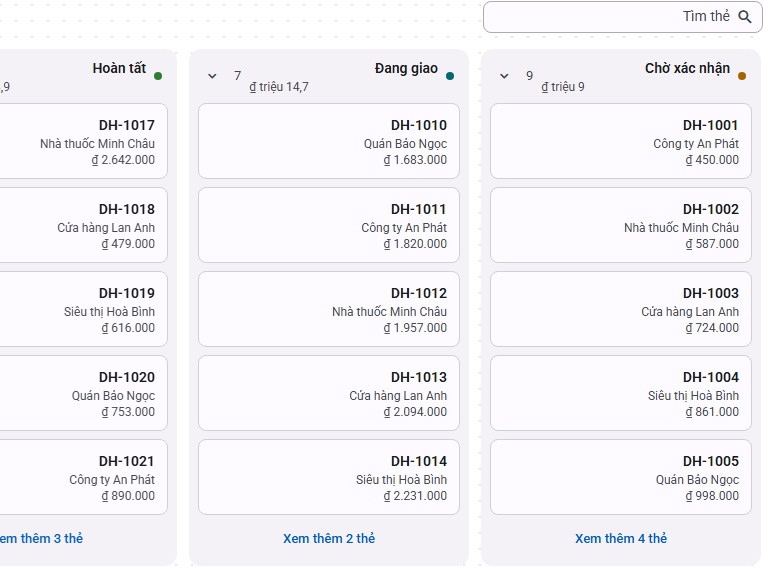
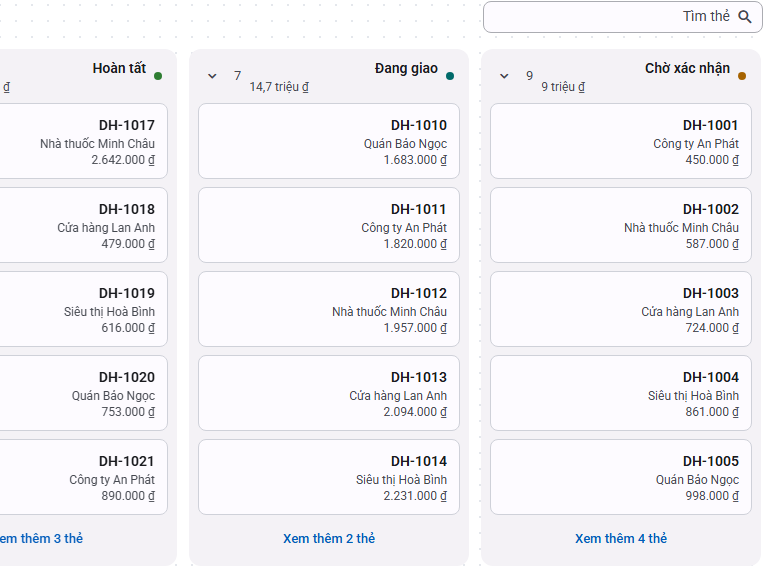
test(kanban): state pictures, stable framed drags, showcase guards; G-final reports
- E2E: one Bangkok-only test pictures the card states (default, hover,
  selected, keyboard focus, saving, failed), the lane kinds and the load
  states (first page, loading more, next-page error, empty) of
  Kanban Review §02–05, and the reorder slot while dragging.
- E2E frame(): smooth scrolling and scroll anchoring off, then wait for
  the page to stand still. The docs page scrolled by itself while
  @defer sections rendered; the CDK moved its cached rects of the fixed
  board and a drop counted as outside the list (KAN-E-09 failed about
  1 in 10 on a loaded machine; 0/60 after).
- Showcase: a 3-second "slow network" switch on the Orders example,
  amounts in <bdi> for RTL, the English note of the Orders example, and
  the registry spec counts for four kanban examples (513 sections).
- reports/kanban-tests.md and kanban-a11y.md (G-final).

diff --git a/showcase/e2e/components/kanban.e2e.ts b/showcase/e2e/components/kanban.e2e.ts
@@ -67,10 +67,22 @@ async function drag(page: Page, source: Locator, target: Locator, beforeDrop?: (
  * four-lane board sit outside the board's scroll view, and a page scroll would shift the drop points.
  */
 async function frame(root: Locator, width = 1500): Promise<void> {
-  await root.evaluate((element, size) => {
+  await root.evaluate(async (element, size) => {
     const host = element.parentElement as HTMLElement;
     Object.assign(host.style, { position: 'fixed', top: '0', left: '0', zIndex: '1000', width: `${size}px`, flex: 'none' });
     host.style.background = 'var(--sd-surface, #fff)';
+    // why: the CDK moves its cached rects when the page scrolls during a drag, but this board is fixed and does not
+    // move: the drop then counts as outside the list. The docs page scrolls by itself (smooth scrolling, and scroll
+    // anchoring while @defer sections render), so turn both off and wait until the page stands still.
+    document.documentElement.style.scrollBehavior = 'auto';
+    document.documentElement.style.overflowAnchor = 'none';
+    document.body.style.overflowAnchor = 'none';
+    let last = Number.NaN;
+    for (let still = 0; still < 3; ) {
+      await new Promise(requestAnimationFrame);
+      still = window.scrollY === last ? still + 1 : 0;
+      last = window.scrollY;
+    }
   }, width);
 }
 
@@ -228,6 +240,67 @@ test.describe('sd-kanban', () => {
     await name(root, 'DH-1001').click();
     await shot(root, 'orders-forced-colors');
     await axe(page, root);
+  });
+
+  test('[KAN-E-01] pictures the card states, the lane kinds and the load states (TESTING §9)', async ({ page }) => {
+    test.skip(test.info().project.name !== 'asia-bangkok', 'pictures are written from the Bangkok run only');
+    // why: the framed board covers the demo buttons, so they are clicked from the page script.
+    const press = (testId: string): Promise<void> => page.getByTestId(testId).evaluate(button => (button as HTMLButtonElement).click());
+
+    // Lanes and load states (Kanban Review §04, §05): the whole board, then one lane per state.
+    let root = await open(page, 'orders', 'orders');
+    await frame(root, 1200);
+    await shot(root, 'board-light');
+    await press('orders-slow');
+    await lane(root, 'cancelled').locator('button[aria-expanded="false"]').click();
+    await expect(lane(root, 'cancelled').locator('[data-skeleton]').first()).toBeVisible();
+    await shot(lane(root, 'cancelled'), 'load-first-page');
+    await lane(root, 'pending').locator('[data-load-more]').click();
+    await expect(lane(root, 'pending')).toHaveAttribute('data-status', 'loading-more');
+    await shot(lane(root, 'pending'), 'load-more-loading');
+    await press('orders-slow');
+    await expect(lane(root, 'pending')).toHaveAttribute('data-status', 'idle', { timeout: 10_000 });
+    await press('fail-shipping');
+    await lane(root, 'shipping').locator('[data-load-more]').click();
+    await expect(lane(root, 'shipping').locator('[data-load-error]')).toBeVisible();
+    await shot(lane(root, 'shipping'), 'load-error-next-page');
+    await press('fail-shipping');
+    await root.locator('input[type="search"]').fill('DH-1002');
+    await expect(lane(root, 'done').locator('.sd-kanban__empty')).toBeVisible({ timeout: 10_000 });
+    await shot(lane(root, 'done'), 'load-empty');
+
+    // Card states (Kanban Review §03) on the async confirmation board.
+    root = await open(page, 'async', 'async');
+    await frame(root, 1200);
+    const first = card(root, 'WEB-001');
+    await page.mouse.move(0, 0);
+    await shot(first, 'card-default');
+    await first.hover();
+    await shot(first, 'card-hover');
+    await name(root, 'WEB-001').click();
+    await page.mouse.move(0, 0);
+    await expect(first).toHaveAttribute('data-selected', 'true');
+    await shot(first, 'card-selected');
+    // why: a key press first, so the programmatic focus counts as keyboard focus (:focus-visible).
+    await page.keyboard.press('Shift');
+    await name(root, 'BE-023').focus();
+    await shot(card(root, 'BE-023'), 'card-focus');
+    await root.locator('[data-kanban-menu="DOC-004"]').click();
+    await page.getByRole('menuitem', { name: 'Chuyển đến In progress' }).click();
+    await expect(card(root, 'DOC-004')).toHaveAttribute('data-pending', 'true');
+    await page.mouse.move(0, 0);
+    await shot(card(root, 'DOC-004'), 'card-saving');
+    await page.getByRole('button', { name: 'Reject' }).evaluate(button => (button as HTMLButtonElement).click());
+    await expect(card(root, 'DOC-004').locator('.sd-kanban__card-status--error')).toBeVisible();
+    await shot(card(root, 'DOC-004'), 'card-failed');
+
+    // Dragging with reorder on: the dashed slot where the card lands.
+    root = await open(page, 'tasks', 'tasks');
+    await frame(root, 1200);
+    await drag(page, name(root, 'WEB-001'), card(root, 'DOC-004'), async () => {
+      await expect(root.locator('.cdk-drag-placeholder')).toHaveCount(1);
+      await shot(root, 'tasks-dragging-slot');
+    });
   });
 
   test('[KAN-E-09] renders 4 × 200 cards within budget and drags without long tasks (TESTING §10)', async ({ page }) => {

diff --git a/showcase/src/app/pages/components/kanban/kanban-demo.component.ts b/showcase/src/app/pages/components/kanban/kanban-demo.component.ts
@@ -124,6 +124,9 @@ const CONTENT: readonly Content[] = [
                 Lỗi cột Đang giao: {{ failShipping() ? 'bật' : 'tắt' }}
               </button>
               <button type="button" data-testid="reload-shipping" (click)="orders.reload('shipping')">Tải lại Đang giao</button>
+              <button type="button" data-testid="orders-slow" (click)="slowNetwork.set(!slowNetwork())">
+                Mạng chậm (3 giây): {{ slowNetwork() ? 'bật' : 'tắt' }}
+              </button>
             </div>
             <div class="orders-layout">
               <sd-kanban
@@ -138,7 +141,7 @@ const CONTENT: readonly Content[] = [
                 <ng-template [sdKanbanCardTemplate]="orderOption" let-card>
                   <strong class="order-code">{{ card.title }}</strong>
                   <span class="order-customer">{{ card.data?.customer }}</span>
-                  <span class="order-amount">{{ money(card.data?.amount ?? 0) }}</span>
+                  <span class="order-amount"><bdi>{{ money(card.data?.amount ?? 0) }}</bdi></span>
                 </ng-template>
               </sd-kanban>
               @if (selectedOrder(); as order) {
@@ -362,6 +365,8 @@ export class KanbanDemoComponent {
     { id: 'cancelled', label: 'Đã huỷ', color: 'error' },
   ];
   readonly failShipping = signal(false);
+  /** Keeps the skeleton and the "loading more" row on screen long enough to look at them. */
+  readonly slowNetwork = signal(false);
   readonly selectedOrder = signal<Order | null>(null);
   readonly reason = signal<{ readonly title: string } | null>(null);
   #answerReason?: (reason: string | null) => void;
@@ -370,7 +375,7 @@ export class KanbanDemoComponent {
     pageSize: 5,
     dataSource: {
       onLoad: async ({ columnId, cursor, pageSize, keyword, signal }) => {
-        await delay(400, signal);
+        await delay(this.slowNetwork() ? 3000 : 400, signal);
         if (columnId === 'shipping' && this.failShipping()) throw new Error('Máy chủ không phản hồi');
         const term = keyword.toLowerCase();
         const matching = this.#store.filter(

diff --git a/showcase/src/app/docs/core/documentation.registry.spec.ts b/showcase/src/app/docs/core/documentation.registry.spec.ts
@@ -47,7 +47,7 @@ describe('documentation registry', () => {
     const exampleIds = DOC_PAGES.flatMap(page => page.examples.map(example => example.id));
 
     expect(new Set(exampleIds).size).toBe(exampleIds.length);
-    expect(exampleIds).toHaveSize(512);
+    expect(exampleIds).toHaveSize(513);
     expect(exampleIds).toContain('forms-segmented-example-types');
     const switchSections = findDocPage('forms', 'switch')?.examples.map(example => example.sectionId);
     expect(switchSections).toContain('example-kich-thuoc');
@@ -89,7 +89,7 @@ describe('documentation registry', () => {
     expect(findDocPage('components', 'breadcrumb')?.demoSectionCount).toBe(3);
     expect(findDocPage('components', 'data-state')?.demoSectionCount).toBe(8);
     expect(findDocPage('components', 'kanban')?.selector).toBe('sd-kanban');
-    expect(findDocPage('components', 'kanban')?.demoSectionCount).toBe(3);
+    expect(findDocPage('components', 'kanban')?.demoSectionCount).toBe(4);
     expect(findDocPage('forms', 'segmented')?.selector).toBe('sd-segmented');
     expect(findDocPage('forms', 'segmented')?.title).toBe('Segmented control');
     expect(findDocPage('forms', 'segmented')?.demoSectionCount).toBe(4);

diff --git a/showcase/src/app/docs/i18n/content.en.ts b/showcase/src/app/docs/i18n/content.en.ts
@@ -513,6 +513,10 @@ export const EN_EXAMPLE_CONTENT: Readonly<Partial<Record<ShowcaseExampleSourceKe
   },
   'components/inform/example-tip-trong-form-va-bang': { title: 'Tip in form and table' },
   'components/job-progress/example-details-va-error': { title: 'Details and error' },
+  'components/kanban/example-orders': {
+    description:
+      'Pattern P1. Drag an order out of the first column: the done column fades at once. Moving an order to the cancelled column asks for a reason; closing the dialog cancels the move. The toast undoes the move. Click an order to open its details.',
+  },
   'components/mini-editor/example-bieu-mau': { title: 'Form' },
   'components/mini-editor/example-dinh-dang-dau-ra-html': { title: 'HTML output format' },
   'components/mini-editor/example-dinh-dang-dau-ra-markdown': { title: 'Markdown output format' },

diff --git a/.sdcorejs/handoff/schedule-kanban/reports/kanban-tests.md b/.sdcorejs/handoff/schedule-kanban/reports/kanban-tests.md
@@ -1,0 +1,221 @@
+# sd-kanban · test
+Commit: mã `0215aff4`, báo cáo và E2E ở commit kế tiếp (nhánh `feat/kanban-api`) · Node local v26 (PD chốt K1; CI Node 24.22.1 là cổng chuẩn) · Chrome Headless 156
+
+## Lệnh (TESTING.md §1)
+| Lệnh | Kết quả |
+| --- | --- |
+| `npx ng test sdcorejs-angular --watch=false --browsers=ChromeHeadlessCI --code-coverage` | Ở `cfa8e0a1` + sửa KAN-C-16 (trước KAN-B-06, -07): 9224/9224 SUCCESS, seed 208298, 5 phút 27 giây. Tổng: statements 88% (39712/45125), branches 79.27%, functions 87.1%, lines 90.37% (ngưỡng karma không báo lỗi). Lần chạy trước đó (cùng mã, chưa sửa C-16): 9222/9223, 1 lỗi KAN-C-16 chỉ khi chạy cả suite (fixture bị đẩy ra ngoài viewport; đã cuộn control vào màn hình trước khi hit-test). |
+| Lệnh nhanh kanban (`--include='projects/sdcorejs-angular/components/kanban/**/*.spec.ts'`) | 143/143 SUCCESS ở `0215aff4` |
+| `npm run lint` (v19) | All files pass linting |
+| `npx ng build sdcorejs-angular` | exit 0, 104 entry point `Built` |
+| `npm run test:theme` | trong `npm run test:scripts`: exit 0, 0 fail |
+| `npm run check:scss-hex` | trong `npm run test:scripts`: exit 0 |
+| `npm run test:scripts` | exit 0 · 18 bộ, 0 fail |
+| `npm run sync` + `npm run check:sync` | Passed: v20, v21, v22 match v19 (đã khôi phục ~1570 file v22 đổi CRLF giả, diff rỗng; memory `sync-v22-phantom-eol`) |
+| Showcase `npm test` (cả suite, gồm `documentation.registry.spec.ts`) | 331/331 SUCCESS. Trước đó đỏ 3 test do phần showcase của CP5: hai số cứng trong `documentation.registry.spec.ts` (513 section, kanban 4 ví dụ) và bản tiếng Anh thiếu cho ghi chú ví dụ Orders (`content.en.ts`); đã sửa. Chạy với `NODE_OPTIONS=--max-old-space-size=8192` (mặc định hết heap trên máy này). |
+| `npm --prefix showcase run link:library` + Playwright `e2e/components/kanban.e2e.ts` | Cấu hình local cổng 4331 (cổng 4321 của repo bị app khác chiếm; file config không commit), hai project `asia-bangkok`, `utc`, Chromium 1920×1000: 25 passed, 1 skipped (test chụp trạng thái chỉ chạy ở Bangkok), 1,8 phút. KAN-E-09 (kéo có `reorder`) lặp 20 lần, 2 worker: 20/20. |
+
+## Coverage từng file (TESTING.md §2)
+Statements từ báo cáo HTML của Istanbul, branches và lines từ `lcov.info`.
+
+| File | Statements | Branches | Lines | Ngưỡng |
+| --- | --- | --- | --- | --- |
+| `kanban.utils.ts` | 100% (82/82) | 100% (55/55) | 100% (51/51) | 100/100 ✓ |
+| `kanban.component.ts` | 97.07% (431/444) | 91.22% (239/262) | 99.45% (359/361) | ≥90/≥85 ✓ |
+| `kanban-loader.ts` | 99% (100/101) | 92.31% (60/65) | 100% (81/81) | — (lớp nội bộ) |
+| `kanban.templates.ts` | 62.5% (10/16) | — | 57.14% (8/14) | không đo (§2), type test |
+
+`kanban.templates.ts` và `kanban.model.ts`: không đo (TESTING §2), có type test `kanban.types.spec.ts` (union `onMove`, context template, `items` sai kiểu). `kanban-loader.ts` không có ngưỡng riêng (lớp nội bộ, không export). Số coverage đo ở lần chạy đầy đủ nêu trên; KAN-B-06, -07 chỉ thêm SCSS, một `<bdi>` và test.
+
+## Mã test
+Mọi mã của SHARED-CONTRACT (trừ phần dưới "Bỏ qua có lý do") và của TESTING §7 có test xanh. Bảng sinh từ tên test (`[KAN-…]`) và từ bảng mã của các test chạy theo bảng (`kanban-pipeline.spec.ts`, kết quả `onMove`).
+
+| Mã | File:dòng test | Kết quả |
+| --- | --- | --- |
+| KAN-U-01 | kanban.utils.spec.ts:31, kanban.utils.spec.ts:62 | ✓ |
+| KAN-U-02 | kanban.utils.spec.ts:38, kanban.utils.spec.ts:67 | ✓ |
+| KAN-U-03 | kanban.component.spec.ts:464, kanban.utils.spec.ts:79, kanban.utils.spec.ts:103 | ✓ |
+| KAN-U-04 | kanban.utils.spec.ts:125 | ✓ |
+| KAN-U-05 | kanban.utils.spec.ts:162 | ✓ |
+| KAN-U-06 | kanban.component.spec.ts:383, kanban.utils.spec.ts:109 | ✓ |
+| KAN-C-01 | kanban.component.spec.ts:207, kanban.component.spec.ts:297 | ✓ |
+| KAN-C-02 | kanban.datasource.spec.ts:73 | ✓ |
+| KAN-C-03 | kanban.datasource.spec.ts:95 | ✓ |
+| KAN-C-04 | kanban.datasource.spec.ts:104, kanban.datasource.spec.ts:127 | ✓ |
+| KAN-C-05 | kanban.datasource.spec.ts:151, kanban.datasource.spec.ts:346 | ✓ |
+| KAN-C-06 | kanban.datasource.spec.ts:167 | ✓ |
+| KAN-C-07 | kanban.datasource.spec.ts:184 | ✓ |
+| KAN-C-08 | kanban.datasource.spec.ts:197 | ✓ |
+| KAN-C-09 | kanban.datasource.spec.ts:215 | ✓ |
+| KAN-C-10 | kanban-pipeline.spec.ts:181, kanban-pipeline.spec.ts:198, kanban.component.spec.ts:431 | ✓ |
+| KAN-C-11 | kanban-pipeline.spec.ts:211, kanban-pipeline.spec.ts:238 | ✓ |
+| KAN-C-12 | kanban-pipeline.spec.ts:252, kanban.component.spec.ts:185 | ✓ |
+| KAN-C-13 | kanban.datasource.spec.ts:257, kanban.datasource.spec.ts:273 | ✓ |
+| KAN-C-14 | kanban.interaction.spec.ts:123, kanban.interaction.spec.ts:182, kanban.interaction.spec.ts:267 | ✓ |
+| KAN-C-15 | kanban.interaction.spec.ts:167, kanban.interaction.spec.ts:196 | ✓ |
+| KAN-C-16 | kanban.interaction.spec.ts:223 | ✓ |
+| KAN-C-17 | kanban.component.spec.ts:373, kanban.component.spec.ts:553, kanban.component.spec.ts:568 | ✓ |
+| KAN-C-18 | kanban.interaction.spec.ts:255 | ✓ |
+| KAN-C-19 | kanban.interaction.spec.ts:209 | ✓ |
+| KAN-SC-01 | kanban.component.spec.ts:452, kanban.datasource.spec.ts:333 | ✓ |
+| KAN-SC-02 | kanban.component.spec.ts:227, kanban.utils.spec.ts:45 | ✓ |
+| KAN-SC-03 | kanban.component.spec.ts:237, kanban.utils.spec.ts:45 | ✓ |
+| KAN-SC-06 | kanban-pipeline.spec.ts:129, kanban-pipeline.spec.ts:145 | ✓ |
+| KAN-SC-07 | kanban-pipeline.spec.ts:118 | ✓ |
+| KAN-SC-08 | kanban-pipeline.spec.ts:161 | ✓ |
+| KAN-SC-09 | kanban-pipeline.spec.ts:276, kanban.component.spec.ts:215 | ✓ |
+| KAN-SC-10 | kanban-pipeline.spec.ts:277 | ✓ |
+| KAN-SC-11 | kanban-pipeline.spec.ts:278, kanban.component.spec.ts:264 | ✓ |
+| KAN-SC-12 | kanban-pipeline.spec.ts:279 | ✓ |
+| KAN-SC-13 | kanban-pipeline.spec.ts:280, kanban.component.spec.ts:264 | ✓ |
+| KAN-SC-14 | kanban-pipeline.spec.ts:332 | ✓ |
+| KAN-SC-15 | kanban-pipeline.spec.ts:347, kanban.component.spec.ts:307, kanban.component.spec.ts:321, kanban.component.spec.ts:719, kanban.datasource.spec.ts:312 | ✓ |
+| KAN-SC-16 | kanban-pipeline.spec.ts:391, kanban.datasource.spec.ts:215 | ✓ |
+| KAN-SC-17 | kanban-pipeline.spec.ts:402 | ✓ |
+| KAN-SC-18 | kanban-pipeline.spec.ts:503 | ✓ |
+| KAN-SC-22 | kanban.datasource.spec.ts:287 | ✓ |
+| KAN-SC-23 | kanban.datasource.spec.ts:197 | ✓ |
+| KAN-SC-24 | kanban.datasource.spec.ts:215, kanban.datasource.spec.ts:246 | ✓ |
+| KAN-SC-25 | kanban.datasource.spec.ts:301 | ✓ |
+| KAN-SC-26 | kanban.interaction.spec.ts:89, kanban.interaction.spec.ts:123 | ✓ |
+| KAN-SC-27 | kanban.interaction.spec.ts:136 | ✓ |
+| KAN-SC-28 | kanban.interaction.spec.ts:148 | ✓ |
+| KAN-SC-29 | kanban-pipeline.spec.ts:315, kanban.component.spec.ts:624, kanban.interaction.spec.ts:278 | ✓ |
+| KAN-SC-30 | kanban.component.spec.ts:529, kanban.component.spec.ts:572 | ✓ |
+| KAN-SC-31 | kanban.component.spec.ts:497, kanban.component.spec.ts:511 | ✓ |
+| KAN-SC-32 | kanban.compact.spec.ts:45, kanban.compact.spec.ts:60, kanban.compact.spec.ts:68 | ✓ |
+| KAN-SC-33 | kanban.compact.spec.ts:74 | ✓ |
+| KAN-SC-34 | kanban.compact.spec.ts:94 | ✓ |
+| KAN-SC-35 | kanban.compact.spec.ts:100 | ✓ |
+| KAN-SC-36 | kanban.compact.spec.ts:107 | ✓ |
+| KAN-SC-37 | kanban.i18n.spec.ts:4 | ✓ |
+| KAN-SC-38 | kanban.compact.spec.ts:116, kanban.component.spec.ts:740 | ✓ |
+| KAN-R-01 | kanban.component.spec.ts:250, kanban.component.spec.ts:353 | ✓ |
+| KAN-R-02 | kanban.component.spec.ts:281, kanban.component.spec.ts:331 | ✓ |
+| KAN-R-03 | kanban-pipeline.spec.ts:376 | ✓ |
+| KAN-R-04 | kanban.component.spec.ts:420, kanban.component.spec.ts:608 | ✓ |
+| KAN-R-05 | kanban.component.spec.ts:529, kanban.component.spec.ts:572, kanban.component.spec.ts:589 | ✓ |
+| KAN-R-06 | kanban.component.spec.ts:511 | ✓ |
+| KAN-R-07 | kanban.component.spec.ts:649, kanban.component.spec.ts:665, kanban.component.spec.ts:686, kanban.component.spec.ts:695 | ✓ |
+| KAN-R-08 | kanban.component.spec.ts:444 | ✓ |
+| KAN-R-09 | kanban.component.spec.ts:82, kanban.component.spec.ts:91, kanban.component.spec.ts:109, kanban.component.spec.ts:152, kanban.component.spec.ts:166, kanban.component.spec.ts:172, kanban.component.spec.ts:361, kanban.component.spec.ts:708 | ✓ |
+| KAN-E-01 | kanban.e2e.ts:117, kanban.e2e.ts:231, kanban.e2e.ts:245 | ✓ |
+| KAN-E-02 | kanban.e2e.ts:131 | ✓ |
+| KAN-E-03 | kanban.e2e.ts:144 | ✓ |
+| KAN-E-04 | kanban.e2e.ts:157 | ✓ |
+| KAN-E-05 | kanban.e2e.ts:166 | ✓ |
+| KAN-E-06 | kanban.e2e.ts:181 | ✓ |
+| KAN-E-07 | kanban.e2e.ts:195 | ✓ |
+| KAN-E-08 | kanban.e2e.ts:343 | ✓ |
+| KAN-E-09 | kanban.e2e.ts:206, kanban.e2e.ts:306 | ✓ |
+| KAN-E-10 | kanban.e2e.ts:221 | ✓ |
+| KAN-B-01 | kanban-pipeline.spec.ts:455 | ✓ |
+| KAN-B-02 | kanban-pipeline.spec.ts:466 | ✓ |
+| KAN-B-03 | kanban-pipeline.spec.ts:480 | ✓ |
+| KAN-B-04 | kanban-pipeline.spec.ts:491 | ✓ |
+| KAN-B-05 | kanban-pipeline.spec.ts:497 | ✓ |
+| KAN-B-06 | kanban.component.spec.ts:118 | ✓ |
+| KAN-B-07 | kanban.component.spec.ts:139 | ✓ |
+
+## Spec cũ trên main → mã mới (TESTING §7.3)
+Theo kế hoạch Bước 0 mục E; mọi mã ở cột phải có trong bảng trên.
+
+`kanban.component.spec.ts`:
+| Spec | Xử lý | Mã mới |
+| --- | --- | --- |
+| 7 test "wave 1 look" (làn trung tính, chấm màu, chấm trong làn thu gọn, số đếm, thẻ không bóng, công cụ thẻ ẩn khi hover, làn đang kéo + khe nét đứt) | Sửa fixture; test khe nét đứt chỉ cho `reorder: true`, thêm biến thể `reorder: false` (không khe, dấu chỗ cũ) | KAN-R-09, KAN-C-11, -12 |
+| commits a local move once and emits the complete dataset | Sửa: không còn chế độ local không có `onMove`; `onMove` trả true thì dữ liệu đổi và phát `sdMove`. Bỏ phần `sdChange`/dataset | KAN-SC-09 |
+| waits for confirmation and blocks duplicate and competing moves | Sửa | KAN-R-01, KAN-SC-14 |
+| keeps data on rejection or thrown persistence error | Sửa | KAN-SC-11, -13 |
+| discards a late response when new input data arrives | Sửa (`items` mới) | KAN-R-02 |
+| aborts on destruction and never emits a late successful move | Sửa | KAN-SC-15 |
+| blocks movement when disabled / readonly / loading / error | Sửa disabled, readonly; **xoá** biến thể `loading`, `error` (input bị bỏ) | KAN-SC-15 |
+| invalidates an async result when model / option / columns is replaced | Sửa (`items` thay `model`), thêm biến thể `reload(columnId)` ở `dataSource` | KAN-R-02, KAN-SC-15 |
+| honors permission veto before calling persistence (`canMove`) | Viết lại cho `movable`, `droppable` đánh giá lại trước `onMove` | KAN-SC-06, -08 |
+| releases the pending lock after rejection so a retry can succeed | Sửa | KAN-R-01 |
+| renders full and filtered counts without changing model order | Sửa | KAN-R-09 |
+| resolves filtered drag insertion using the full-data anchor | Sửa cho `reorder: true`, kiểm `beforeId` | KAN-U-06, KAN-C-12 |
+| routes keyboard reordering through the same move pipeline | Sửa cho `reorder: true`; thêm `reorder: false` (Alt + ↑ ↓ không làm gì) | KAN-C-11 |
+| routes movement menu actions through the same move pipeline | Sửa | KAN-C-10 |
+| preserves collapsed data and expands a collapsed destination | Sửa | KAN-R-08 |
+| fails closed for duplicate IDs and unknown columns | Sửa | KAN-SC-01, KAN-U-04 |
+| ignores an unchanged filtered slot (trailing / interleaved) | Sửa cho `reorder: true` | KAN-U-03 |
+| keeps an API move in another board from taking focus | Sửa | KAN-R-06, KAN-SC-31 |
+| preserves focus in an outside input after a pending keyboard move is accepted / rejected / failed | Sửa, thêm `'cancel'` | KAN-R-05, KAN-SC-30 |
+| draws the board search with the shared search field | Sửa: chỉ khi `searchable`; thêm test mặc định false | KAN-C-17 |
+| preserves focus moved to this board search while pending | Sửa | KAN-SC-30 |
+| does not restore queued focus after the user focuses and blurs another control | Sửa | KAN-R-05 |
+| restores the initiating handle after acceptance / rejection when pending disables it | Đổi sang nút tên | KAN-R-04, KAN-SC-29 |
+| restores the moved handle after an asynchronous menu action closes its overlay | Đổi sang nút tên | KAN-SC-29 |
+| card-anchored move feedback (4 test) | Sửa | KAN-R-07 |
+| applies the column palette through data-color | Giữ | — |
+| removes its pending focus listener on destroy / replace | Giữ | KAN-SC-15 |
+
+`kanban.utils.spec.ts`:
+| Spec | Xử lý | Mã mới |
+| --- | --- | --- |
+| maps arbitrary domain fields immutably and inserts before a full-data anchor | Viết lại (không còn ánh xạ) | KAN-U-02, KAN-SC-02, -03 |
+| reorders within a column without mapping or losing unrelated cards | Sửa | KAN-U-03 |
+| keeps numeric and string IDs distinct | **Xoá** (id chỉ là `string`, bỏ `SdKanbanId`) | — |
+| reorders falsy generic items rather than treating them as missing | **Xoá** (thẻ luôn là object) | — |
+| fails closed on duplicate, unmapped or throwing domain mappings | Viết lại theo §8 (không còn hàm ánh xạ ném lỗi) | KAN-U-04 |
+| ignores no-op, missing identity, disabled target and invalid insertion positions | Sửa | KAN-U-01, -03 |
+
+## E2E (TESTING §7.4, §11)
+| Mã | Kịch bản | Kết quả |
+| --- | --- | --- |
+| KAN-E-01 | Đơn hàng: bắt đầu kéo DH-1001, Hoàn tất mờ (`data-blocked`), Đang giao nhận; axe; dark, RTL, forced colors; ảnh các trạng thái | ✓ |
+| KAN-E-02 | Thả vào Đang giao, Hoàn tác trên toast: về Chờ xác nhận, số đếm hai cột đúng | ✓ |
+| KAN-E-03 | Kéo sang Đã huỷ (mở cột), đóng hộp lý do: `'cancel'`, về chỗ cũ, không lỗi | ✓ |
+| KAN-E-04 | Xem thêm tới hết trang: nút biến mất, số đếm theo `total` | ✓ |
+| KAN-E-05 | Lỗi cột Đang giao, Thử lại; cột khác vẫn kéo được | ✓ |
+| KAN-E-06 | Bấm thẻ mở drawer đúng đơn; di chuột 3 px vẫn là bấm | ✓ |
+| KAN-E-07 | Chỉ bàn phím: Tab tới thẻ, Enter, `Alt` + `→`, focus theo thẻ | ✓ |
+| KAN-E-08 | 390 px, `hasTouch`: chạm chọn, giữ 400 ms kéo, vuốt ngang cuộn board | ✓ |
+| KAN-E-09 | Công việc `reorder: true`: khe nét đứt, `beforeId: null` khi thả cuối cột, `"BE-023"` khi thả lên đầu; 4 × 200 thẻ (đo §10) | ✓ |
+| KAN-E-10 | Board trong cột 400 px của trang desktop: `data-compact` | ✓ |
+
+Chập chờn đã xử lý: KAN-E-09 đỏ khoảng 1/10 lần khi máy tải nặng. Nguyên nhân (đo bằng script lặp 60 lần với 3 tiến trình): test ghim board bằng `position: fixed`, còn trang docs tự cuộn (scroll anchoring khi các khối `@defer` render). CDK dời rect đã cache của danh sách theo lần cuộn đó, nên lúc thả `isPointerOverContainer` là `false`. Board thật không bị ghim nên cuộn theo trang, không có lỗi này. `frame()` trong E2E giờ tắt smooth scroll và `overflow-anchor`, rồi chờ trang đứng yên: 0/60 lỗi, E2E lặp 20/20.
+
+## Hiệu năng (TESTING §10)
+Kịch bản: ví dụ Công việc, nút "200 thẻ mỗi cột" (4 × 200 thẻ `items`), template thẻ của ví dụ (badge, avatar, 2 icon, nút actions). Render đo trong trang: từ lúc bấm tới hết khung hình hiện 800 thẻ (`requestAnimationFrame` rồi `setTimeout(0)`), 5 lần, trung vị. Kéo: `PerformanceObserver('longtask')` trong một lần kéo OPEN-1 sang In progress.
+
+| Đo | Kết quả | Ngân sách |
+| --- | --- | --- |
+| Render 800 thẻ, dev server | 1208–1323 ms (trung vị 5 lần, hai project) | ≤ 150 ms — **vượt** |
+| Render 800 thẻ, production build (`ng build showcase --configuration production`, server tĩnh) | 1207–1403 ms (3 lần E2E); 830–880 ms đo riêng bằng CDP | ≤ 150 ms — **vượt** |
+| Long task khi kéo, production build | 6–8 task, đa số 50–65 ms; 105–135 ms lúc nhấc thẻ và lúc thả | không task > 50 ms — **vượt** |
+| Long task khi kéo, trước tối ưu (dev server và production build) | 15–17 task 55–210 ms | |
+
+Đã làm (commit `ffdf5515`):
+- Một `mat-menu` chung cho board thay vì một menu mỗi thẻ (thẻ truyền vào qua `matMenuTriggerData`); `movable` và token id tính sẵn trong `CardView`, template không gọi method theo thẻ. Render dev 2,1 s → 1,8 s.
+- `contain: paint` trên thẻ: phần định vị của thẻ (lớp phủ nút tên, ⋯, actions) nằm trong stacking context của thẻ. `elementFromPoint` trên board 800 thẻ 14 ms → 4 ms; khung hình sau khi đổi viền một thẻ 40 ms → ~17 ms; long task khi kéo 16 → 5–8. Đổi lại: nội dung thẻ bị cắt theo khung thẻ (ghi trong `sd-kanban.md`; menu, tooltip của Core UI nằm trong overlay nên không ảnh hưởng).
+
+Phân tích phần còn lại (trace Chrome, production build):
+- Render: ~590 ms JS change detection (tạo 800 view thẻ, mỗi thẻ có `cdkDrag`, `MatMenuTrigger`, `sd-icon`, cộng template của ví dụ: `sd-badge`, `sd-avatar`, 2 `sd-icon`, `sd-button`), ~190 ms style + layout, ~200 ms paint/layerize. Template của ví dụ nặng hơn khung thẻ của kanban (profile dev, thời gian gộp: SdButton ~80 ms, SdIcon ~65 ms, SdBadge ~60 ms, SdAvatar ~47 ms; template thẻ của kanban ~157 ms, trong đó `CdkDrag` ~31 ms, `MatMenuTrigger` ~23 ms).
+- Kéo: lúc nhấc và lúc thả, CD của cả board chạy lại mọi binding của 800 thẻ (signal đổi ở cấp board); giữa chừng là HitTest + Layerize của trang 37.000 px.
+
+Đề xuất (cần PD chốt, không tự làm):
+1. Tách thẻ thành component con OnPush nhận `CardView`, để signal cấp board (đang kéo, đang chọn, đang chờ) chỉ làm mới đúng thẻ liên quan. Giảm CD lúc nhấc, thả; không đổi API.
+2. `content-visibility: auto` + `contain-intrinsic-size` trên thẻ: bỏ style, layout, paint của thẻ ngoài màn hình. Cần kiểm CDK đo vị trí thẻ chưa vẽ khi tự cuộn lúc kéo.
+3. Virtual scroll theo làn (ngoài phạm vi `kanban.md` §0; TESTING §10 cấm tự thêm).
+4. Khuyến nghị cho consumer trong `sd-kanban.md`: cột dài dùng `dataSource` + `pageSize` (đã ghi ở "Limits").
+
+## Ảnh chụp (TESTING §9)
+Thư mục `reports/kanban-screens/`, chụp từ project `asia-bangkok`, Chromium, vi, light trừ khi ghi khác. So với `Kanban Review.dc.html` mục 02–05.
+
+| Mục thiết kế | Ảnh |
+| --- | --- |
+| 02 Board mới (dữ liệu P1, đang kéo) | `board-light.png` (cả board, có làn Đã huỷ thu gọn, summary, Xem thêm), `orders-dragging.png` (Hoàn tất mờ vì `droppable`, Đang giao nhận, chỗ cũ mờ .4), `orders-light.png`, `orders-dark.png`, `orders-rtl.png`, `orders-400.png` (compact theo host 400 px) |
+| 03 Thẻ, 8 trạng thái | `card-default.png`, `card-hover.png`, `card-selected.png`, `card-focus.png`, `orders-dragging.png` (đang kéo, `reorder` tắt), `tasks-dragging-slot.png` (đang kéo, `reorder` bật, khe nét đứt), `card-saving.png`, `card-failed.png`. "Không dời được" (`movable` false): không có ảnh riêng, nhìn như Mặc định (chỉ khác con trỏ và menu khoá), kiểm bằng KAN-C-15. |
+| 04 Ba kiểu làn khi kéo | `orders-dragging.png` (nhận, bị từ chối), `board-light.png` (thu gọn) |
+| 05 Năm trạng thái tải | `load-first-page.png` (3 khối xương), `board-light.png` (Xem thêm), `load-more-loading.png` (đang tải thêm), `orders-column-error.png` (lỗi trang đầu) và `load-error-next-page.png` (lỗi trang sau), `load-empty.png` (Không có thẻ) |
+| Forced colors | `orders-forced-colors.png` (thẻ chọn viền Highlight, làn CanvasText) |
+
+Lệch có chủ đích: chữ trên thẻ của ví dụ là dữ liệu showcase (mã đơn, khách, tiền), không phải giờ tạo như HTML; nút ⋯ ẩn tới khi hover với chuột như main.
+
+## Bỏ qua có lý do
+- SC-19, SC-20, SC-21: N/A, kanban không có `create`.
+- SC-04, SC-05, SC-39 → SC-45: kiểm ở review bằng đọc code và `check:scss-hex`, không có mã riêng (Bước 0 mục C). SC-41 (ngày giờ), SC-44 (slot thời gian): N/A cho kanban.
+- Ma trận zone (TESTING §11): kanban không xử lý ngày giờ; E2E chạy ở hai project `asia-bangkok`, `utc` của repo. Chrome trên Windows bỏ qua biến `TZ` (ghi nhận của R2 calendar).
+- Trình duyệt: cấu hình Playwright của showcase chỉ có Chromium.

diff --git a/.sdcorejs/handoff/schedule-kanban/reports/kanban-a11y.md b/.sdcorejs/handoff/schedule-kanban/reports/kanban-a11y.md
@@ -1,0 +1,15 @@
+# sd-kanban · trợ năng (TESTING.md §8)
+Nhánh `feat/kanban-api`. Showcase không có `@axe-core/playwright`; axe-core 4.13.0 của `versions/v19/node_modules` được nạp bằng `page.addScriptTag` như calendar (Bước 0 mục F), không thêm dependency.
+
+| Mục | Cách kiểm | Kết quả |
+| --- | --- | --- |
+| Tự động | axe-core trong E2E: ví dụ Đơn hàng đang kéo (KAN-E-01, có làn bị `droppable` từ chối), và sau dark + RTL + `forcedColors: 'active'` + `reducedMotion: 'reduce'` với một thẻ đang chọn | 0 vi phạm serious/critical |
+| Chỉ bàn phím | E2E KAN-E-07 (Tab tới nút tên, Enter chọn, `Alt` + `→` sang Đang giao, focus theo thẻ). Karma KAN-C-14 (Enter, Space, Esc), KAN-C-16 (nút tên là tab stop; ⋯ và actions nằm trên lớp phủ), KAN-C-10 (`Alt` + `→` bỏ làn bị từ chối), KAN-C-11 (`Alt` + `↑` `↓` không làm gì khi `reorder` tắt), KAN-SC-29…31, KAN-R-04…06 (focus sau khi dời, giữ focus người dùng tự đặt, `move()` từ API không lấy focus) | Đạt. Không bẫy focus: menu ⋯ là `mat-menu` (Esc đóng, focus về nút); hộp lý do của ví dụ là của consumer. |
+| Live region | Karma KAN-SC-33 (đúng một vùng `role="status"`, polite, atomic, kể cả khi có dải lỗi board, cột trống, lỗi tải; dải lỗi và chữ trống không còn role riêng, K3). Chuỗi đọc: KAN-SC-09…13 (đã dời, từ chối, lỗi, huỷ theo từng kết quả `onMove`), KAN-C-10 (thả vào làn bị từ chối), KAN-C-14 (đã chọn) | Đạt |
+| Làn bị từ chối | Karma KAN-C-10: `data-blocked` và `aria-disabled="true"` trên danh sách của làn bị `droppable` từ chối từ `cdkDragStarted` tới `cdkDragEnded`; thả vào đọc "Không chuyển sang {cột} được" | Đạt |
+| Tên và mô tả | Nút tên: tên là nội dung thẻ; `aria-describedby` trỏ tới hướng dẫn ẩn (đổi theo `reorder`) và tới lỗi trên thẻ khi thất bại. Thẻ đang chọn: `aria-current="true"` trên `article`. Template thẻ có control: cảnh báo dev (KAN-C-18). | Đạt |
+| forced-colors | Ảnh `orders-forced-colors.png` (Chromium `forcedColors: 'active'`), Karma KAN-SC-35 | Làn khung `CanvasText`; thẻ chọn, chờ, lỗi viền `Highlight` |
+| reduced motion | Karma KAN-SC-34; ảnh cùng lúc với forced-colors | Công cụ thẻ không transition |
+| Cảm ứng | E2E KAN-E-08 (`hasTouch`, 390px): chạm chọn, giữ 400ms mới kéo, vuốt ngang cuộn board. Karma KAN-SC-36: vùng chạm 40px cho ⋯, Bỏ qua, Thử lại, Xem thêm (`pointer: coarse`) | Đạt |
+| Phóng to 200% | Chưa làm tay | **Chờ** |
+| VoiceOver + Safari / NVDA + Firefox | Không chạy được trong môi trường này (Windows, không có trình đọc màn hình) | **Chờ PD**: tên thẻ và hướng dẫn, thông báo đang lưu, đã dời, từ chối, huỷ, lỗi tải, làn bị từ chối khi kéo, Xem thêm |
